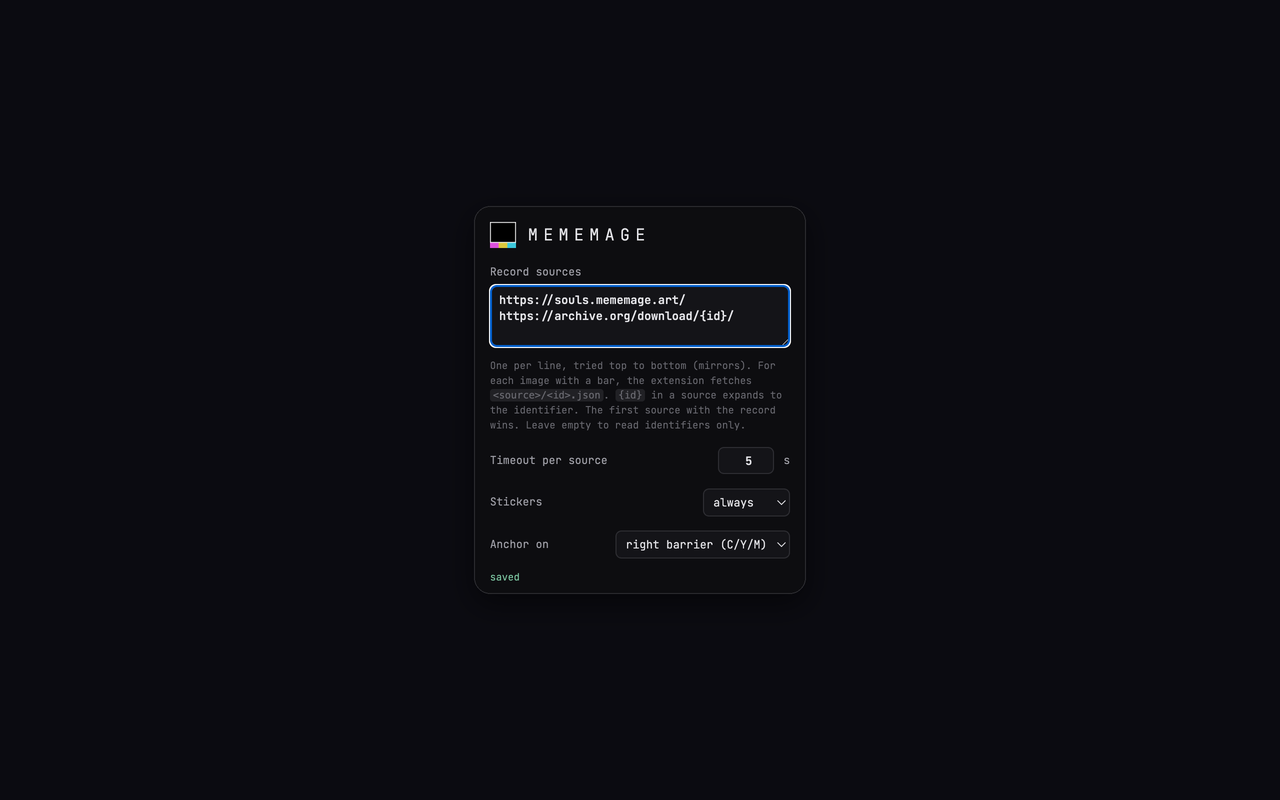
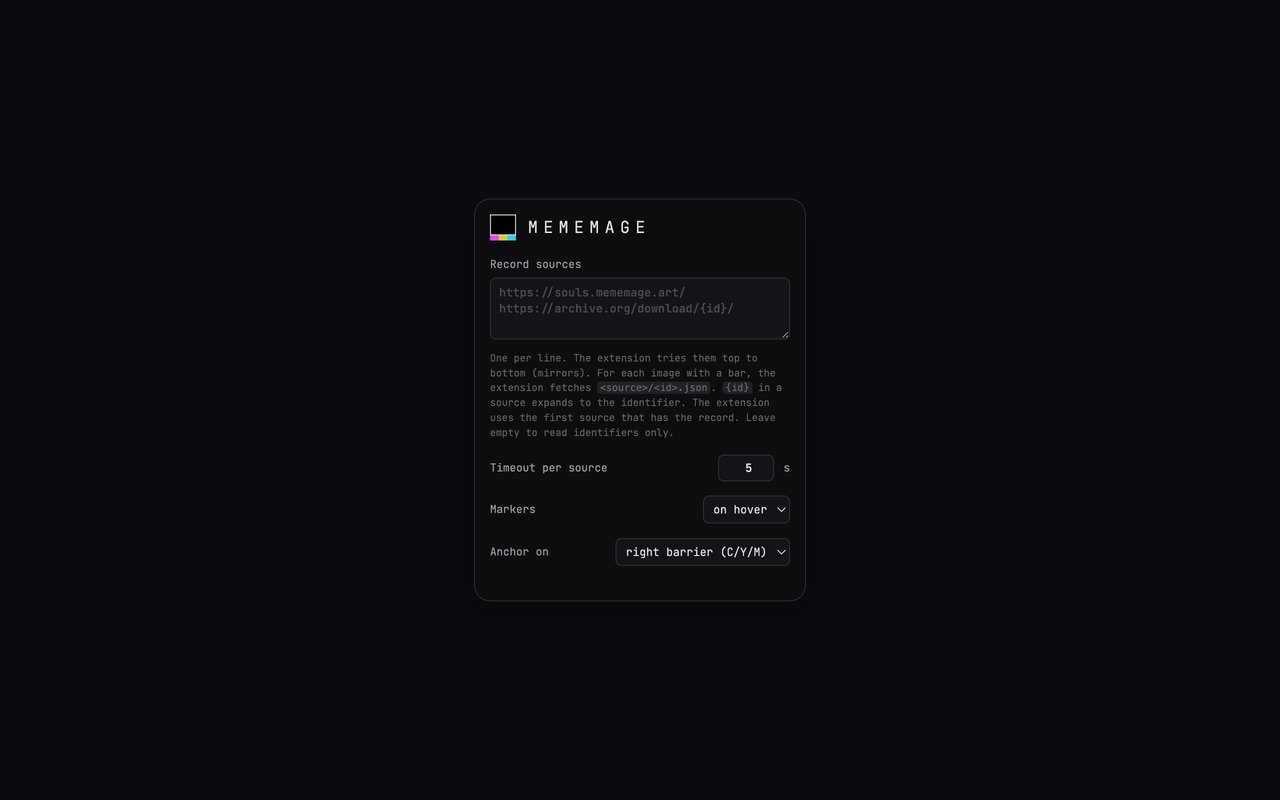
Release: Mememage Chrome extension v1.0.0

Changed region(s): [[0.375, 0.25, 0.625, 0.5938], [0.5, 0.625, 0.5938, 0.7188], [0.375, 0.625, 0.4375, 0.75]]

diff --git a/gen-screenshots.py b/gen-screenshots.py
@@ -138,13 +138,14 @@ def main():
             f = os.path.join(OUT, "4-verified.png")
             page.screenshot(path=f); shots.append(f)
 
-            # --- Shot 3: the toolbar popup (settings) ----------------------------
+            # --- Shot 3: the toolbar popup (fresh state — empty sources so the
+            #     greyed placeholder shows; the extension ships no default sources) ---
+            sw.evaluate("() => chrome.storage.sync.remove('sources')")
             ext_id = sw.url.split("/")[2]
             pop = ctx.new_page()
             pop.set_viewport_size({"width": 360, "height": 640})
             pop.goto("chrome-extension://%s/popup.html" % ext_id)
             pop.wait_for_selector("#sources")
-            pop.fill("#sources", "https://souls.mememage.art/\nhttps://archive.org/download/{id}/")
             pop.wait_for_timeout(400)
             pop.locator("body").screenshot(path=os.path.join(OUT, "_popup_raw.png"))
             pop.close()